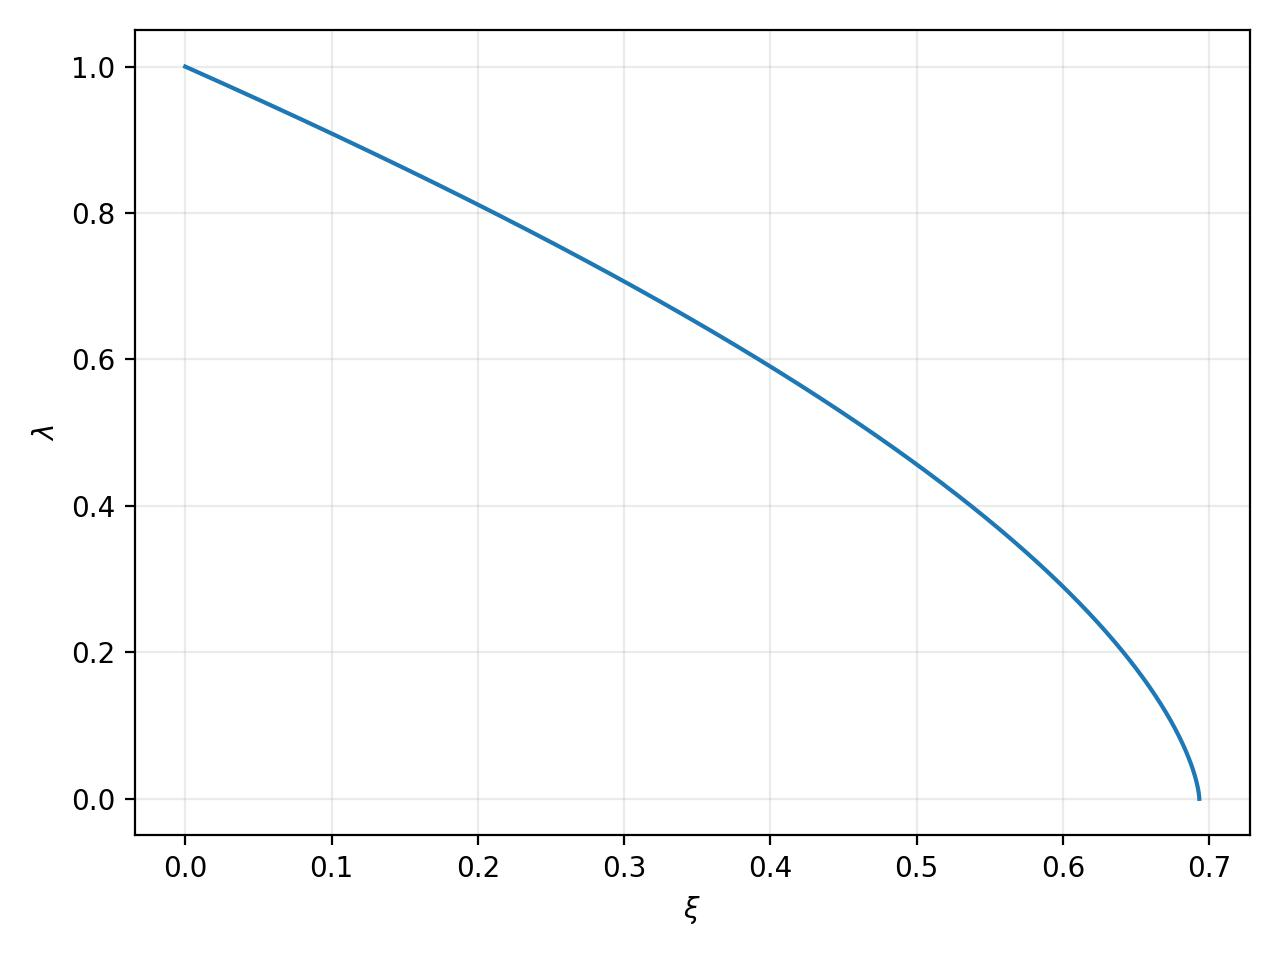
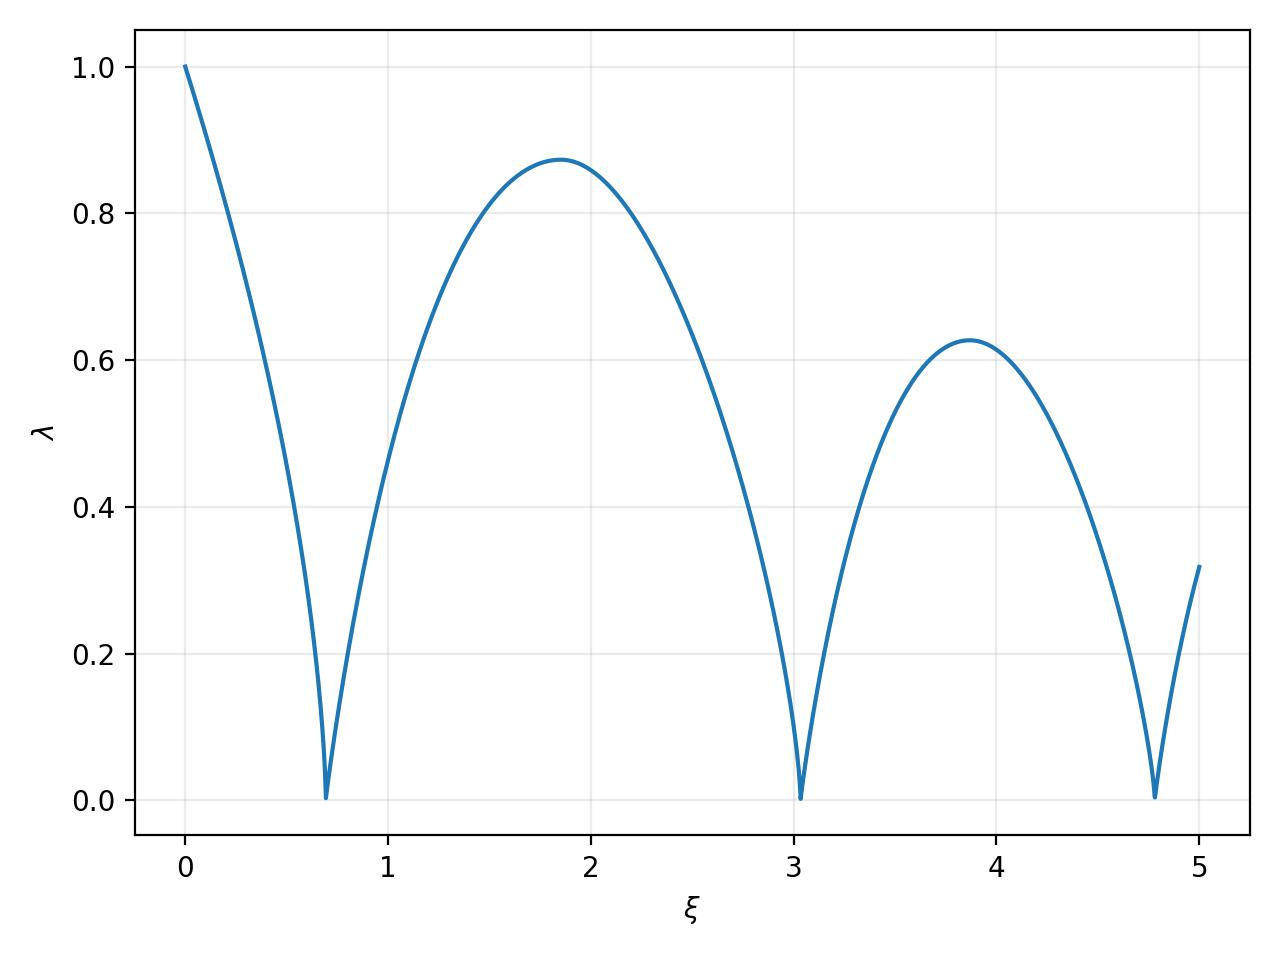
analytic Bertschinger with multiple crossing

diff --git a/example/BertschingerReference/bertschinger_ode.py b/example/BertschingerReference/bertschinger_ode.py
@@ -33,54 +33,141 @@ class BertschingerShellSolution:
 
 
 def solve_eq41_self_similar(xi_end=5.0, points=8192,
-                            similarity_exponent=1.0):
-    r"""Solve the normalized first-stream Bertschinger trajectory.
+                            similarity_exponent=1.0,
+                            centre_match_lambda=2.0e-3,
+                            centre_matching_velocity=2.30):
+    r"""Solve the collisionless Bertschinger trajectory through crossings.
 
     Bertschinger's mass closure is
 
     ``M(lambda) = sum_i (-1)**(i-1) exp(-(2*s/3)*xi_i)``.
 
-    Before the first centre passage there is only one stream, so the closure
-    is exactly ``M(lambda(xi)) = (9*pi**2/16)*exp(-(2*s/3)*xi)``.  The
-    trajectory is stopped at its first ``lambda=0`` event; later passages use
-    the full alternating crossing sum and are deliberately outside this
-    benchmark.
+    The trajectory is integrated branch by branch in phase space.  For every
+    radius, all previously completed monotonic branches are interpolated to
+    obtain their crossing times and the enclosed mass is evaluated as
+
+    ``M(lambda) = M_ta * sum((-1)**i * exp(-(2*s/3)*xi_i))``.
+
+    The physical centre is singular in the radial equation.  We therefore
+    stop at ``centre_match_lambda`` and restart the outgoing branch with the
+    finite phase-space matching velocity ``centre_matching_velocity``.  This
+    is a controlled lambda-to-zero asymptotic matching condition, rather than
+    reflecting the divergent velocity returned by a finite-radius cutoff.
+    The matching parameters are recorded by the example driver and should be
+    kept fixed when comparing resolutions.
     """
-    if xi_end <= 0.0 or points < 2 or similarity_exponent <= 0.0:
+    if (xi_end <= 0.0 or points < 2 or similarity_exponent <= 0.0
+            or not 0.0 < centre_match_lambda < 1.0
+            or centre_matching_velocity <= 0.0):
         raise ValueError('invalid self-similar ODE parameters')
 
     # M is normalized by the EdS background mass inside r_ta.  The mass of a
     # radial shell at turnaround is larger than that background mass by this
     # factor; using M(1)=1 with the 2/9 force coefficient mixes conventions.
     turnaround_mass_normalization = 9.0 * np.pi**2 / 16.0
-    centre_event_radius = 1.0e-6
+    branches = []
+    max_step = float(xi_end) / max(1000, 2 * int(points))
+
+    def branch_roots(radius):
+        roots = []
+        for branch in branches:
+            if branch['minimum'] <= radius <= branch['maximum']:
+                roots.append(float(branch['time_of_radius'](radius)))
+        return roots
 
     def rhs(time, state):
         radius, radial_velocity = state
-        safe_radius = max(radius, 1.0e-8)
-        mass = (turnaround_mass_normalization
-                * np.exp(-2.0 * similarity_exponent * time / 3.0))
+        radius = max(float(radius), centre_match_lambda)
+        roots = branch_roots(radius)
+        roots.append(float(time))
+        roots.sort()
+        mass = turnaround_mass_normalization * sum(
+            (-1.0) ** index
+            * np.exp(-2.0 * similarity_exponent * root / 3.0)
+            for index, root in enumerate(roots))
         return [radial_velocity,
                 -7.0 / 9.0 * radial_velocity + 8.0 / 81.0 * radius
-                - 2.0 / 9.0 * mass / safe_radius**2]
+                - 2.0 / 9.0 * mass / radius**2]
 
     def centre_event(time, state):
-        return state[0] - centre_event_radius
+        return state[0] - centre_match_lambda
     centre_event.terminal = True
     centre_event.direction = -1
-    solution = solve_ivp(
-        rhs, (0.0, float(xi_end)), [1.0, -8.0 / 9.0],
-        events=centre_event, dense_output=True,
-        rtol=2.0e-10, atol=1.0e-12,
-        max_step=float(xi_end) / (10 * int(points)), method='RK45')
-    if not solution.t_events[0].size:
-        raise RuntimeError('Eq. (4.1) did not reach lambda=0')
-    zero_time = float(solution.t_events[0][0])
-    output_xi = np.linspace(0.0, zero_time, int(points))
-    output_state = solution.sol(output_xi)
-    output_lam = np.maximum(output_state[0], 0.0)
-    output_lam[-1] = 0.0
-    output_mass = (turnaround_mass_normalization
-                   * np.exp(-2.0 * similarity_exponent * output_xi / 3.0))
-    return BertschingerShellSolution(output_xi, output_lam,
-                                     output_state[1], output_mass)
+
+    def apocentre_event(time, state):
+        return state[1]
+    apocentre_event.terminal = True
+    apocentre_event.direction = -1
+
+    def save_branch(solution):
+        # Every branch is monotonic in radius.  PCHIP avoids spurious extrema
+        # when a crossing time is requested by a neighbouring branch.
+        from scipy.interpolate import PchipInterpolator
+
+        order = np.argsort(solution.y[0])
+        radius = solution.y[0][order]
+        time = solution.t[order]
+        unique = np.concatenate(([True], np.diff(radius) > 1.0e-12))
+        if np.count_nonzero(unique) < 2:
+            # At the resolution cutoff, a rapidly shrinking late branch can
+            # be represented by a single solver point.  It carries no new
+            # radial interval and is safely omitted from the closure.
+            return
+        branch = {
+            'minimum': float(radius[unique][0]),
+            'maximum': float(radius[unique][-1]),
+            'time_of_radius': PchipInterpolator(
+                radius[unique], time[unique], extrapolate=False),
+        }
+        branches.append(branch)
+
+    output_time = []
+    output_state = []
+    time = 0.0
+    state = np.array([1.0, -8.0 / 9.0])
+    outbound = False
+    while time < xi_end - 1.0e-12:
+        event = apocentre_event if outbound else centre_event
+        solution = solve_ivp(
+            rhs, (time, float(xi_end)), state, events=event,
+            rtol=2.0e-10, atol=1.0e-12, max_step=max_step, method='RK45')
+        if solution.t.size == 0:
+            raise RuntimeError('empty Bertschinger phase-space branch')
+        output_time.extend(solution.t.tolist())
+        output_state.extend(solution.y.T.tolist())
+        save_branch(solution)
+        time = float(solution.t[-1])
+        state = solution.y[:, -1].copy()
+        if time >= xi_end - 1.0e-12:
+            break
+        if not solution.t_events[0].size:
+            raise RuntimeError('Bertschinger branch did not reach its event')
+        if outbound:
+            # Start the next inward branch just past apocentre.
+            state[1] = -1.0e-8
+            outbound = False
+        else:
+            # The divergent finite-cutoff velocity is discarded here.  The
+            # matched outgoing branch has a finite phase-space launch speed.
+            state[0] = centre_match_lambda
+            state[1] = float(centre_matching_velocity)
+            outbound = True
+
+    output_time = np.asarray(output_time)
+    output_state = np.asarray(output_state)
+    unique = np.concatenate(([True], np.diff(output_time) > 1.0e-12))
+    output_time = output_time[unique]
+    output_state = output_state[unique]
+    sample_time = np.linspace(0.0, float(xi_end), int(points))
+    output_lam = np.interp(sample_time, output_time, output_state[:, 0])
+    output_velocity = np.interp(sample_time, output_time, output_state[:, 1])
+    output_mass = np.empty_like(sample_time)
+    for index, radius in enumerate(output_lam):
+        roots = branch_roots(float(radius))
+        roots.sort()
+        output_mass[index] = turnaround_mass_normalization * sum(
+            (-1.0) ** root_index
+            * np.exp(-2.0 * similarity_exponent * root / 3.0)
+            for root_index, root in enumerate(roots))
+    return BertschingerShellSolution(sample_time, output_lam,
+                                     output_velocity, output_mass)

diff --git a/example/BertschingerReference/bertschinger_reference.py b/example/BertschingerReference/bertschinger_reference.py
@@ -69,6 +69,9 @@ def main(config_filename=DEFAULT_CONFIG):
         xi_end=float(runparams['ode_xi_end']),
         points=int(runparams['ode_points']),
         similarity_exponent=float(runparams['ode_similarity_exponent']),
+        centre_match_lambda=float(runparams['ode_centre_match_lambda']),
+        centre_matching_velocity=float(
+            runparams['ode_centre_matching_velocity']),
     )
     if not np.all(np.isfinite(profiles['density'])):
         raise RuntimeError('similarity density profile contains non-finite values')
@@ -92,6 +95,9 @@ def main(config_filename=DEFAULT_CONFIG):
         'ODEPoints': int(runparams['ode_points']),
         'ODESimilarityExponent': float(runparams['ode_similarity_exponent']),
         'ODEMassNormalization': 9.0 * np.pi**2 / 16.0,
+        'ODECentreMatchLambda': float(runparams['ode_centre_match_lambda']),
+        'ODECentreMatchingVelocity': float(
+            runparams['ode_centre_matching_velocity']),
     })
     output_ode = Path(runparams['savedir']) / 'BertschingerEq41ODE.hdf5'
     et.write_reference(output_ode, {
@@ -103,7 +109,7 @@ def main(config_filename=DEFAULT_CONFIG):
     }, {
         'Solution': 'Bertschinger1985_collisionless_shell_ODE',
         'Equation': 'Bertschinger1985_Eq4.1',
-        'MassClosure': 'normalized_first_stream_exp_minus_2s_xi_over_3',
+        'MassClosure': 'full_alternating_stream_crossing_sum',
         'InitialLambda': 1.0,
         'InitialLambdaPrime': -8.0 / 9.0,
         'AngularMomentum': 0.0,
@@ -111,6 +117,9 @@ def main(config_filename=DEFAULT_CONFIG):
         'Points': int(runparams['ode_points']),
         'SimilarityExponent': float(runparams['ode_similarity_exponent']),
         'MassNormalization': 9.0 * np.pi**2 / 16.0,
+        'CentreMatchLambda': float(runparams['ode_centre_match_lambda']),
+        'CentreMatchingVelocity': float(
+            runparams['ode_centre_matching_velocity']),
     })
     ode_figure = Path(runparams['savedir']) / 'BertschingerEq41XiLambda.jpg'
     ode_plot = plot_xi_lambda(ode_solution, filename=ode_figure)

diff --git a/example/BertschingerReference/README.rst b/example/BertschingerReference/README.rst
@@ -45,13 +45,16 @@ collisionless dark-matter shell equation, not a gas equation:
 The initial conditions are exactly ``lambda(0)=1`` and
 ``lambda'(0)=-8/9``. The solver writes ``BertschingerEq41ODE.hdf5`` with
 ``xi``, ``lambda``, ``lambda_prime``, and ``mass`` datasets. The current ODE
-test uses Bertschinger's normalized first-stream mass closure, sets
-``ode_angular_momentum`` to zero, and stops at the first ``lambda=0`` event.
+test uses Bertschinger's normalized mass closure, sets
+``ode_angular_momentum`` to zero, and continues through shell crossings.
+Each monotonic phase-space branch is retained and the enclosed mass is
+reconstructed with the alternating crossing sum. The centre is treated with
+the explicit ``ode_centre_match_lambda`` and
+``ode_centre_matching_velocity`` asymptotic matching parameters, rather than
+a divergent finite-cutoff reflection.
 The similarity exponent is configured by ``ode_similarity_exponent`` and the
 mass normalization is ``9*pi**2/16`` when the force coefficient is ``2/9``.
 
-The trajectory is one representative shell before its first centre passage;
-no post-centre reflection is included in this reference.
 
 Run with::
 

diff --git a/docs/bertschinger_reference.rst b/docs/bertschinger_reference.rst
@@ -173,9 +173,13 @@ equation is normalized by the Einstein--de Sitter background mass inside
    \mathcal M(\lambda(\xi))={9\pi^2\over16}
    \exp[-(2s/3)\xi],
 
-so ``M(1)=9*pi**2/16``. Integration stops at the first ``lambda=0`` event.
-No post-centre reflection or angular-momentum regularization is applied. The
-ODE output is
+so ``M(1)=9*pi**2/16``. The solver then continues through shell crossings.
+Each monotonic phase-space branch is retained and the enclosed mass is
+reconstructed with the full alternating crossing sum. Near the singular
+centre, integration stops at ``ode_centre_match_lambda`` and starts the
+outgoing branch with the finite ``ode_centre_matching_velocity``. This
+controlled asymptotic matching avoids reflecting the divergent finite-cutoff
+velocity. Both parameters are written to the HDF5 header. The ODE output is
 ``BertschingerEq41ODE.hdf5``.
 
 Output format
